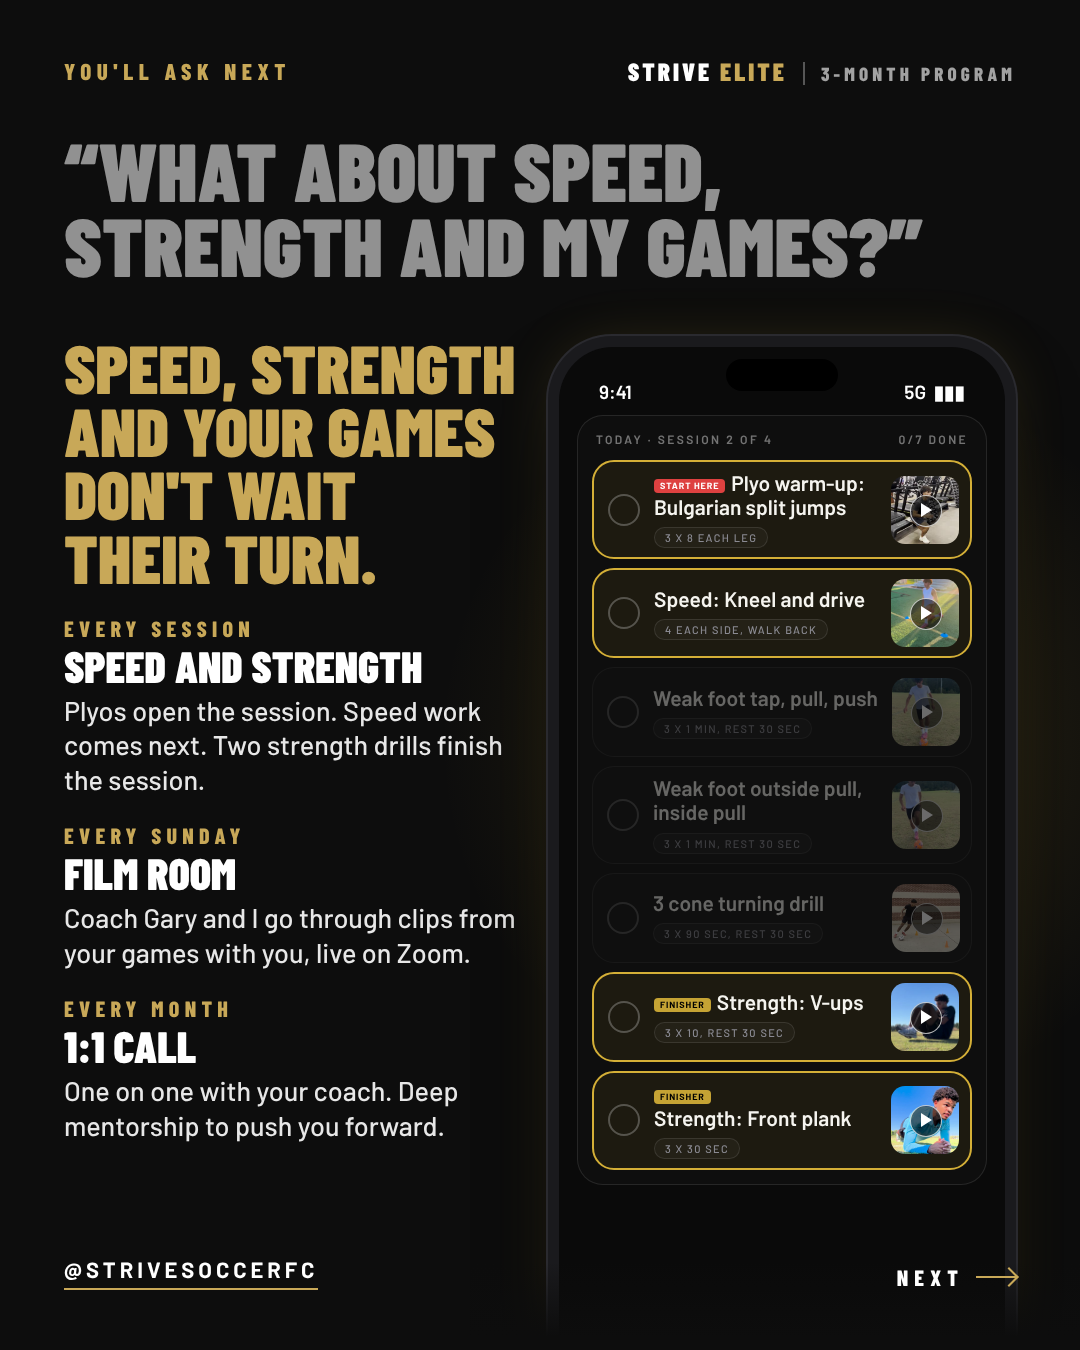
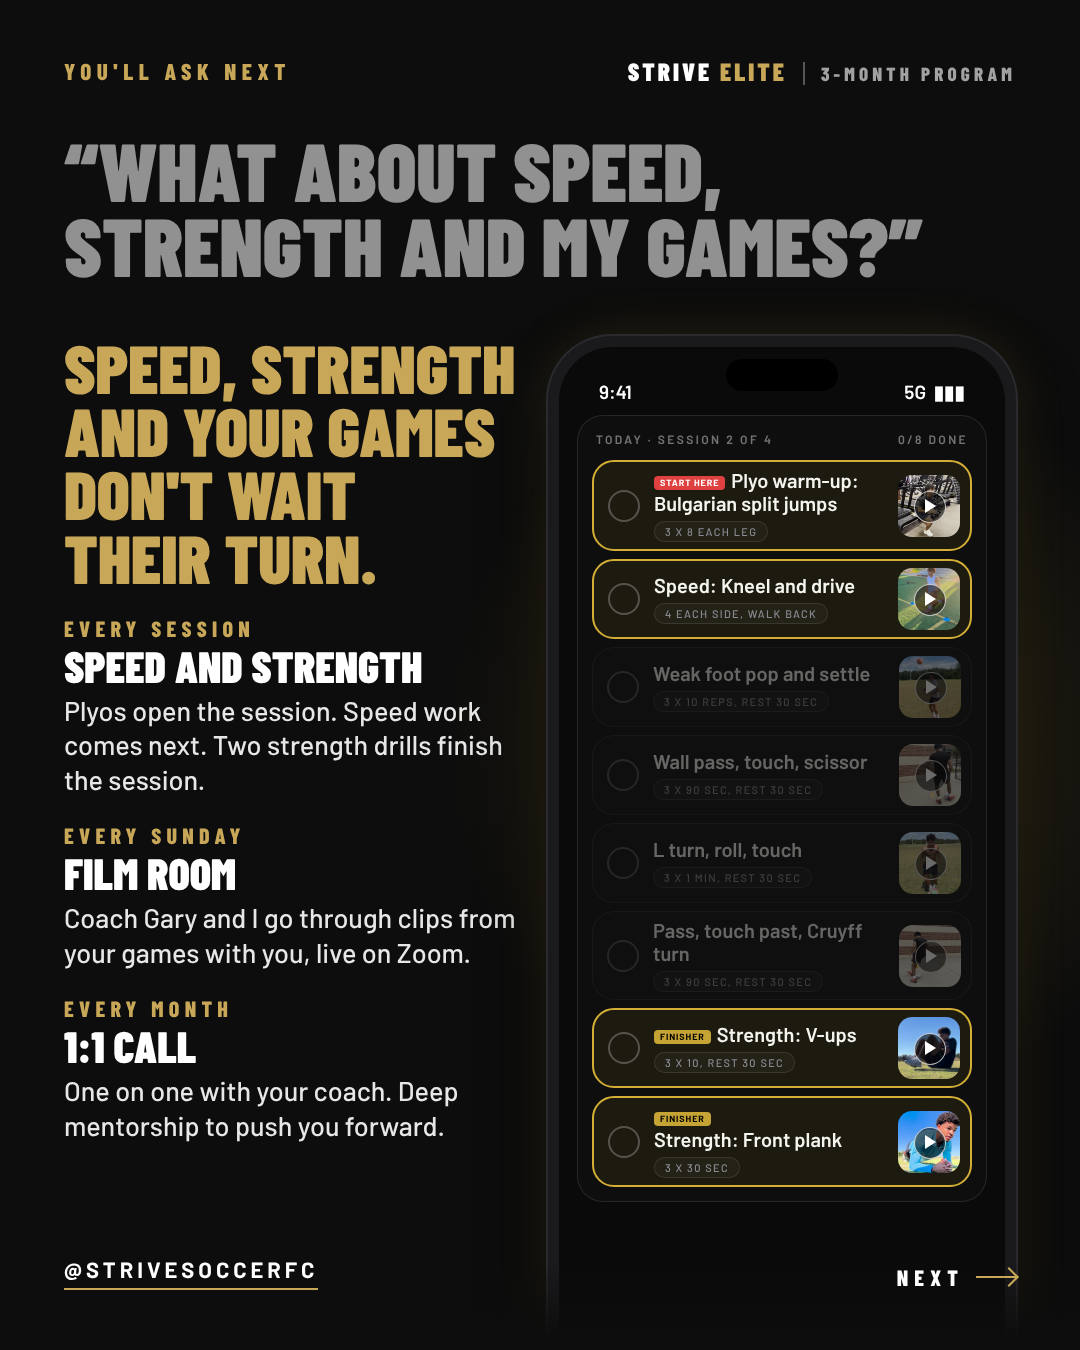
Compact carousel: slide 7 phone shows four new technical drills
Claude-Session: https://claude.ai/code/session_011JsCTTjCbUkHbTuWTKQSXJ

Changed region(s): [[0.55, 0.3422, 0.9167, 0.8711]]

diff --git a/marketing/program/one-thing-carousel-4/07-every-week.html b/marketing/program/one-thing-carousel-4/07-every-week.html
@@ -1,7 +1,7 @@
 <!doctype html><meta charset="utf-8"><link rel="stylesheet" href="../../covers/strive-elite-meeting/fonts.css"><link rel="stylesheet" href="style.css"><title>Speed, strength and your games</title>
 <style>
 .q{position:absolute;left:64px;right:64px;top:132px;font-size:82px}
-.card{min-height:90px;padding:9px 11px 9px 14px}.cards{gap:9px}.th{width:68px;height:68px}
+.card{min-height:80px;padding:7px 10px 7px 14px}.cards{gap:8px}.th{width:62px;height:62px}.card .tl{font-size:20px}.card .chip{margin-top:6px}
 .phone{top:336px;height:1016px}
 .copy{top:336px;width:452px}
 .copy .big{font-size:68px;line-height:.93}
@@ -17,12 +17,13 @@
 <div class="it"><small>Every session</small><b>Speed and strength</b><p>Plyos open the session. Speed work comes next. Two strength drills finish the session.</p></div>
 <div class="it"><small>Every Sunday</small><b>Film Room</b><p>Coach Gary and I go through clips from your games with you, live on Zoom.</p></div>
 <div class="it"><small>Every month</small><b>1:1 call</b><p>One on one with your coach. Deep mentorship to push you forward.</p></div></div>
-<div class="phone"><div class="screen"><div class="island"></div><div class="status"><span>9:41</span><span>5G &nbsp;▮▮▮</span></div><div class="sess"><div class="shd"><span>Today · Session 2 of 4</span><span>0/7 done</span></div><div class="cards">
+<div class="phone"><div class="screen"><div class="island"></div><div class="status"><span>9:41</span><span>5G &nbsp;▮▮▮</span></div><div class="sess"><div class="shd"><span>Today · Session 2 of 4</span><span>0/8 done</span></div><div class="cards">
 <div class="card start hi"><div class="ck"></div><div class="tx"><div class="tl"><span class="bd red">Start here</span><span style="white-space:nowrap">Plyo warm-up:</span> Bulgarian split jumps</div><span class="chip">3 x 8 each leg</span></div><div class="th"><img src="app/plyo-bulgarian-split-jumps.jpg"></div></div>
 <div class="card hi"><div class="ck"></div><div class="tx"><div class="tl">Speed: Kneel and drive</div><span class="chip">4 each side, walk back</span></div><div class="th"><img src="app/speed-kneel-and-drive.jpg"></div></div>
-<div class="card lo"><div class="ck"></div><div class="tx"><div class="tl">Weak foot tap, pull, push</div><span class="chip">3 x 1 min, rest 30 sec</span></div><div class="th"><img src="app/weak-foot-tap-pull-push.jpg"></div></div>
-<div class="card lo"><div class="ck"></div><div class="tx"><div class="tl">Weak foot outside pull, inside pull</div><span class="chip">3 x 1 min, rest 30 sec</span></div><div class="th"><img src="app/weak-foot-outside-pull-inside-pull.jpg"></div></div>
-<div class="card lo"><div class="ck"></div><div class="tx"><div class="tl">3 cone turning drill</div><span class="chip">3 x 90 sec, rest 30 sec</span></div><div class="th"><img src="app/triangle-turning.jpg"></div></div>
+<div class="card lo"><div class="ck"></div><div class="tx"><div class="tl">Weak foot pop and settle</div><span class="chip">3 x 10 reps, rest 30 sec</span></div><div class="th"><img src="app/weak-foot-pop-and-settle.jpg"></div></div>
+<div class="card lo"><div class="ck"></div><div class="tx"><div class="tl">Wall pass, touch, scissor</div><span class="chip">3 x 90 sec, rest 30 sec</span></div><div class="th"><img src="app/wall-pass-touch-scissor.jpg"></div></div>
+<div class="card lo"><div class="ck"></div><div class="tx"><div class="tl">L turn, roll, touch</div><span class="chip">3 x 1 min, rest 30 sec</span></div><div class="th"><img src="app/l-turn-roll-touch.jpg"></div></div>
+<div class="card lo"><div class="ck"></div><div class="tx"><div class="tl">Pass, touch past, Cruyff turn</div><span class="chip">3 x 90 sec, rest 30 sec</span></div><div class="th"><img src="app/pass-cruyff-turn.jpg"></div></div>
 <div class="card hi"><div class="ck"></div><div class="tx"><div class="tl"><span class="bd gd">Finisher</span><span style="white-space:nowrap">Strength: V-ups</span></div><span class="chip">3 x 10, rest 30 sec</span></div><div class="th"><img src="app/strength-v-ups.jpg"></div></div>
 <div class="card hi"><div class="ck"></div><div class="tx"><div class="tl"><span class="bd gd">Finisher</span><span style="white-space:nowrap">Strength: Front plank</span></div><span class="chip">3 x 30 sec</span></div><div class="th"><img src="app/strength-front-plank.jpg"></div></div>
 </div></div></div></div>

diff --git a/CLAUDE.md b/CLAUDE.md
@@ -4057,6 +4057,7 @@ commit.
       THEN Nov 12 2026 (Coach Yinka: "Now send the final"): THE FINAL COMPACT CAROUSEL SENT, EIGHT slides re-rendered from source in posting order (marketing/program/one-thing-carousel-4/): cover; "This is your training now" (2 drills in 4 sessions); same 4 sessions, 8 drills; progressive overload (weak foot drills, week 1 then week 2); his story; three months, six weaknesses (Finishing in weeks 11 and 12, his "dreams become reality" line); speed, strength and your games with the app phone; close. Caption in the README. NOT POSTED. Still his: "30 day" versus the 3-month program on the slides; Finishing and the Ronaldinho drill are on the slides but the app cannot give a player either in a focus today (no finishing drills; the Ronaldinho drill is switched off and filed under Ball Mastery); slide 4's reps for pop and juggle and the Ronaldinho drill differ from the bank's; the slides show 4 drills and two strength finishers a session where the app builds 3 and 1; Carla's ELITE reply should expect "the one thing holding you back".
       THEN Nov 12 2026 (Coach Yinka: "Last slide instead of one thing, tell us what's holding you back, and in 3 months ____"): he left the ending blank for me. The line beside the DM us "ELITE" button on the compact cut's last slide is "Tell us what's holding you back, and in three months it won't be." (the ending is MY fill, his to change); the caption's last line is "DM ELITE and tell us what's holding you back." FLAG given with the send: "it won't be" is a result claim; the softer endings offered were "we'll have a plan built around it" and "you'll be a different player". Sent, not posted.
       THEN Nov 12 2026 (Coach Yinka: "Caption that actually is relatable and doesn't just repeat the post. We must connect and convert"): NEW CAPTION for the compact carousel, written with the lead-magnet skill's rules, saved in the README (the earlier caption kept under it). It opens in the player's own world and says nothing the slides say: "You're not lazy. That's the frustrating part." / staying after practice, at the field alone, the same thing still letting you down on Saturday / "Nobody ever showed you how to train on your own. Team practice gets coached. The hours you put in alone, you had to make up yourself." / "I made mine up too. It took five months out injured to show me I was working hard the wrong way." / "Swipe through. This is how Coach Gary and I train players now." / "Then DM us ELITE and tell us what's holding you back. We'll tell you where we'd start. New weeks start every Monday." No price, no guarantee, no scarcity number; "new weeks start every Monday" is true of the app. FLAG: "I made mine up too" and "working hard the wrong way" are my wording of his own account of the discovery, his to check. Sent in chat, not posted.
+      THEN Nov 12 2026 (Coach Yinka, with a screenshot of the speed, strength and games slide: "Add another technical drill to this season, 4 new ones"; I READ IT AS the session on the phone: four technical drills, not three, and four it has not shown yet, and said so): the phone on compact cut slide 7 now shows EIGHT cards, "0/8 done": the plyo warm-up, Speed: Kneel and drive, then FOUR technical drills, none of them used on slide 4 or on this slide before: "Weak foot pop and settle" (3 x 10 reps, rest 30 sec), "Wall pass, touch, scissor" (3 x 90 sec, rest 30 sec), "L turn, roll, touch" (3 x 1 min, rest 30 sec), "Pass, touch past, Cruyff turn" (3 x 90 sec, rest 30 sec), bank titles and reps, each with a frame of its own clip; then the two strength finishers. The picks are mine (two weak foot, one ball mastery, one passing; the two wall drills mean a player with a wall), his to change. The technical drills stay dimmed on this slide because the slide is about speed and strength. The app still builds three skill drills and one finisher a session. Sent, not posted.
 
 ## Skills (use them without being asked)
 

diff --git a/marketing/program/one-thing-carousel-4/README.md b/marketing/program/one-thing-carousel-4/README.md
@@ -42,7 +42,10 @@ Same look, same approved lines, merged. Render: `node render.mjs 02-your-week.ht
    STRENGTH AND YOUR GAMES DON'T WAIT THEIR TURN. / Every session, SPEED AND
    STRENGTH / Every Sunday, FILM ROOM / Every month, 1:1 CALL (One on one with
    your coach. Deep mentorship to push you forward.) Beside the copy, the
-   phone with the app's session screen.
+   phone with the app's session screen, eight cards: the plyo warm-up, the
+   speed drill, four technical drills (Weak foot pop and settle; Wall pass,
+   touch, scissor; L turn, roll, touch; Pass, touch past, Cruyff turn; bank
+   titles and reps) and the two strength finishers.
 8. `08-close`. ONE THING AT A TIME. HARDER EVERY WEEK. NOTHING LEFT BEHIND. /
    Three months, built around you by Coach Gary and me. / DM us "ELITE" / Tell
    us what's holding you back, and in three months it won't be.
